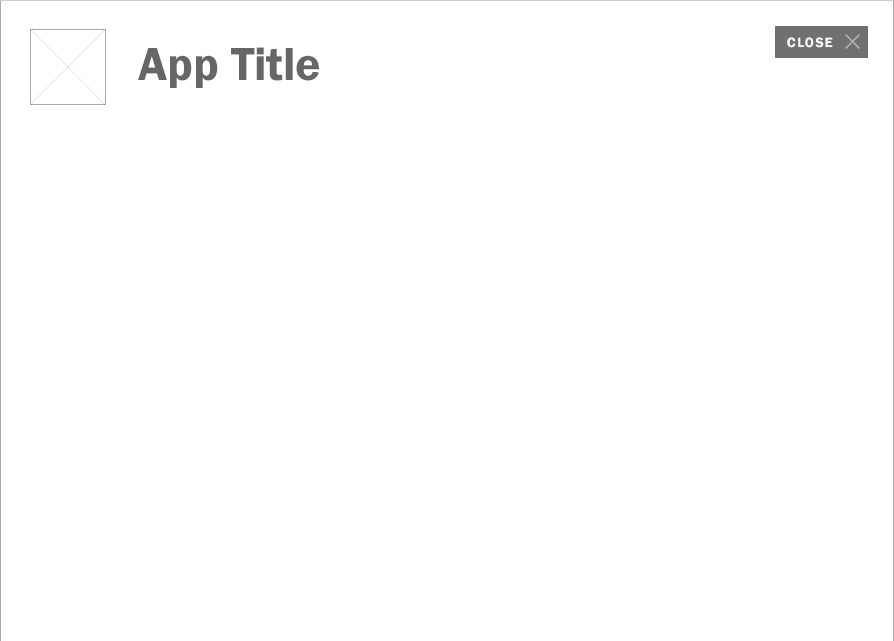
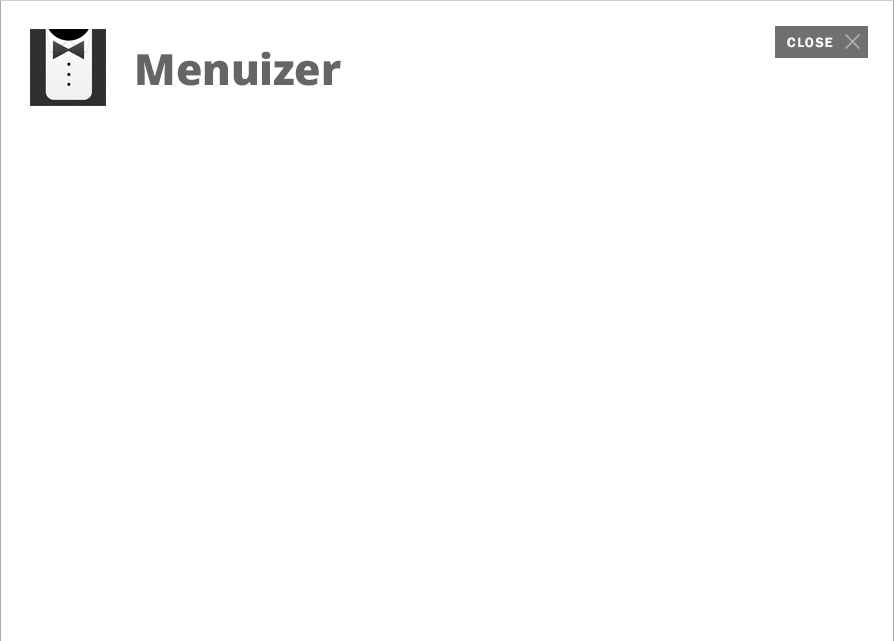
Added placeholder content to clickable wireframes

Changed region(s): [[0.151, 0.0624, 0.3926, 0.156], [0.0302, 0.0312, 0.1208, 0.1872]]

diff --git a/html/catalog-landing-hospitality-apps.html b/html/catalog-landing-hospitality-apps.html
@@ -1,15 +1,15 @@
 <li>
-	<img src="img/catalog-listing-hospitality-1.jpg" alt="view app" usemap="#thumb-listing" />
+	<img src="img/catalog-listing-hospitality-1.jpg" alt="view app" usemap="#thumb-listing-hospitality" />
 </li>
 <li>
-	<img src="img/catalog-listing-hospitality-2.jpg" alt="view app" usemap="#thumb-listing" />
+	<img src="img/catalog-listing-hospitality-2.jpg" alt="view app" usemap="#thumb-listing-hospitality" />
 </li>
 <li>
-	<img src="img/catalog-listing-hospitality-3.jpg" alt="view app" usemap="#thumb-listing" />
+	<img src="img/catalog-listing-hospitality-3.jpg" alt="view app" usemap="#thumb-listing-hospitality" />
 </li>
 <li>
-	<img src="img/catalog-listing-hospitality-4.jpg" alt="view app" usemap="#thumb-listing" />
+	<img src="img/catalog-listing-hospitality-4.jpg" alt="view app" usemap="#thumb-listing-hospitality" />
 </li>
-	<map name="thumb-listing">
-	<area shape="rect" coords="745,21,873,63" href="catalog-expanded.html" />
+	<map name="thumb-listing-hospitality">
+	<area shape="rect" coords="745,21,873,63" href="catalog-expanded-menuizer.html" />
 </map>

diff --git a/html/catalog-expanded-menuizer.html b/html/catalog-expanded-menuizer.html
@@ -1,0 +1,30 @@
+<!doctype html>
+<html>
+	<head>
+		<meta charset="UTF-8">
+		<title>Cognotion – Catalog: App One</title>
+		
+		<link rel="stylesheet" href="css/style.css">
+		<script src="http://ajax.googleapis.com/ajax/libs/jquery/2.1.1/jquery.min.js"></script>
+	</head>
+	<body>
+		<nav>
+			<img src="img/nav_catalog.jpg" alt="nav" width="958" height="55" usemap="#nav"/>
+	    		<map name="nav">
+	    			<area shape="rect" coords="320,0,420,55" href="dashboard.html" />
+	       			<area shape="rect" coords="440,0,555,55" href="account-landing.html" />
+	    		</map>
+		</nav>
+		<div class="content"> 
+			<div class="app-expanded">
+				<img class="app-title" src="img/catalog-expanded.jpg" alt="app expanded" usemap="#options"/>
+					<map name="options">
+						<area shape="rect" coords="775,27,867,57" href="catalog-landing.html" />
+						<area shape="rect" coords="705,127,867,167" href="#" />
+					</map>
+			</div><!-- app-expanded -->
+		</div><!-- .content -->
+
+		<script type="text/javascript" src="js/app.js"></script>
+	</body>
+</html>

diff --git a/html/account-landing.html b/html/account-landing.html
@@ -24,9 +24,6 @@
 	    	</div><!-- info-options -->
 		  <ul class="accounts-grid">
 		  	<li><a href="account-overview.html"><img src="img/thumb_app-grid.jpg" width="200" height="299" alt="view app" /></a></li>
-		  	<li><a href="account-overview.html"><img src="img/thumb_app-grid.jpg" width="200" height="299" alt="view app" /></a></li>
-		  	<li><a href="account-overview.html"><img src="img/thumb_app-grid.jpg" width="200" height="299" alt="view app" /></a></li>
-		  	<li><a href="account-overview.html"><img src="img/thumb_app-grid.jpg" width="200" height="299" alt="view app" /></a></li>
 		  </ul><!-- accounts-grid -->
 		</div><!-- .content -->
 

diff --git a/html/catalog-landing.html b/html/catalog-landing.html
@@ -21,9 +21,6 @@
 					<select id="catalog-dropdown-options">
 						<option>Select a category</option>
 						<option value="hospitality">Hospitality</option>
-						<option value="accounting">Accounting</option>
-						<option value="medical">Medical</option>
-						<option value="retail">Retail</option>
 					</select>
 				</div>
 				<img src="img/industry-views-blank.jpg" width="958" height="100" alt="titlebar" />

diff --git a/html/css/style.css b/html/css/style.css
@@ -522,6 +522,8 @@ ul.catalog-listing {
     width: 895px;
     margin: 0 0 40px 0;
     float: left; }
+    ul.catalog-listing li img {
+      width: 100%; }
 
 img.app-title {
   display: block;

diff --git a/html/css/style.scss b/html/css/style.scss
@@ -89,6 +89,9 @@ ul.catalog-listing {
 		width: 895px;
 		margin: 0 0 40px 0;
 		float: left;
+		img {
+			width: 100%;
+		}
 	}
 }
 img.app-title {
